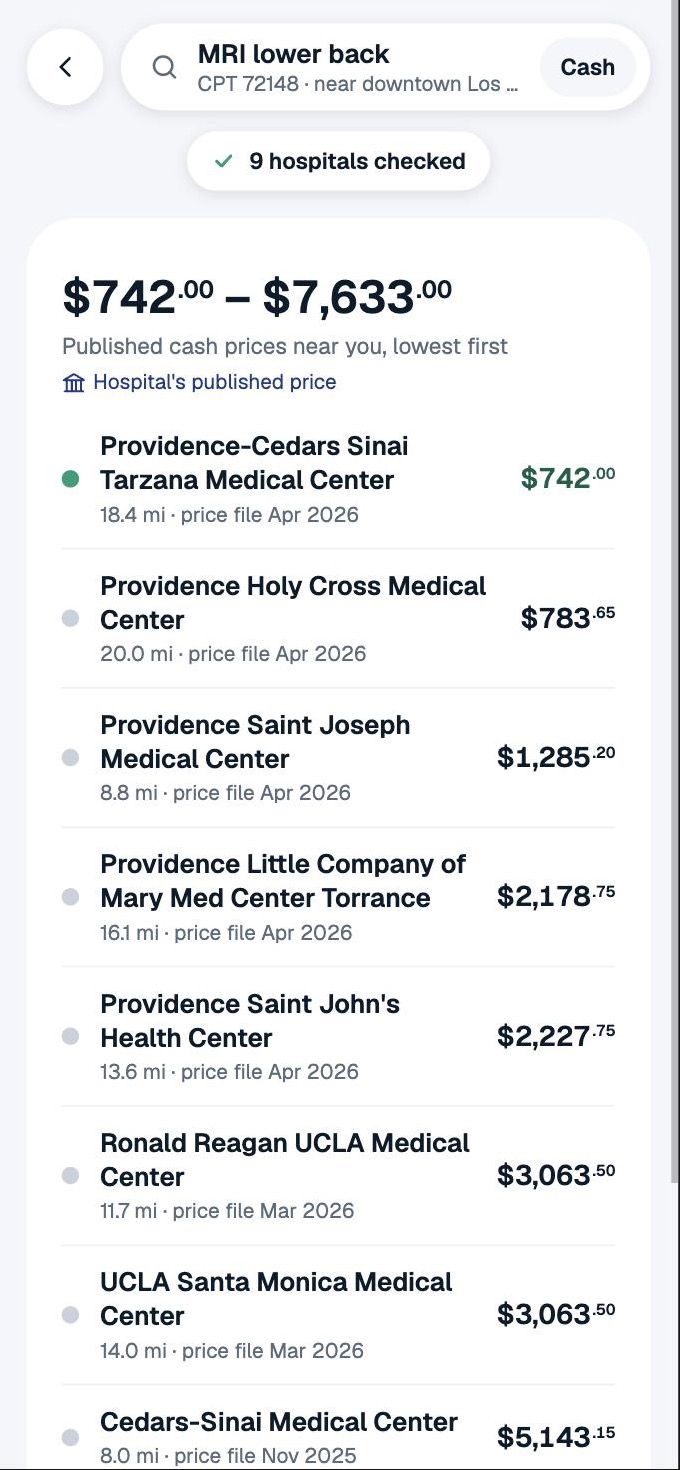
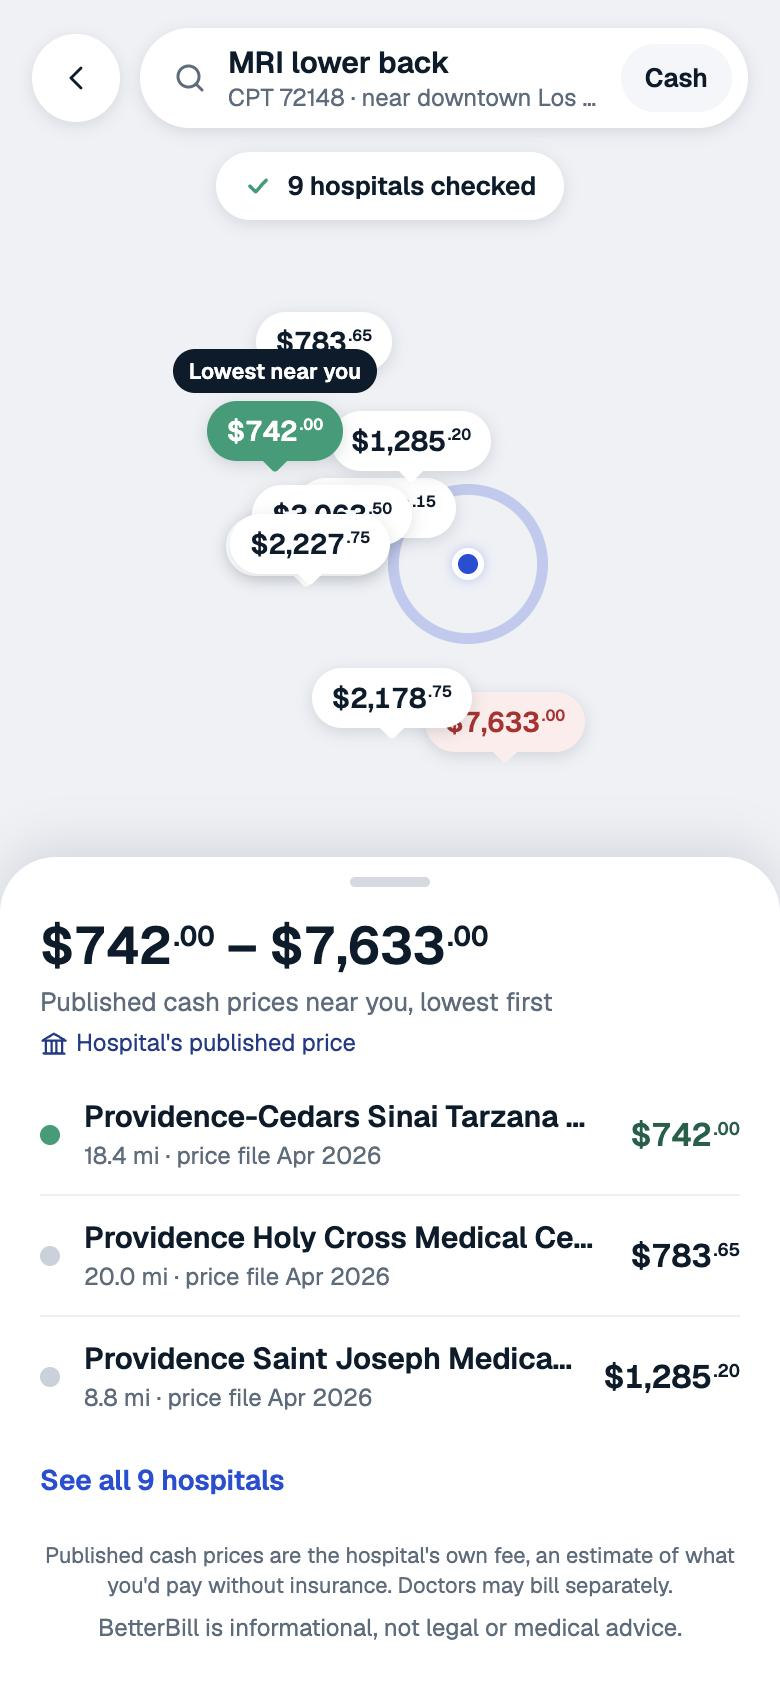
feat(native): animated price map on web
Expo web cannot draw react-native-maps, so the web map places each
hospital's price tag at its real position relative to the others (a flat
projection of latitude and longitude) on a plain background, with no
streets or place names. Same motion as the phone: the spot pulses while
we check, tags pop in every 180 ms with lower prices on top, then the
sheet rises. The map keeps every pin above the measured sheet, and sheet
rows keep hospital names to one line.

diff --git a/apps/native/components/bb/price-map.tsx b/apps/native/components/bb/price-map.tsx
@@ -1,3 +1,19 @@
+import { useEffect, useState } from "react";
+import { Pressable, View } from "react-native";
+import Animated, {
+  cancelAnimation,
+  Easing,
+  useAnimatedStyle,
+  useReducedMotion,
+  useSharedValue,
+  withDelay,
+  withRepeat,
+  withTiming,
+} from "react-native-reanimated";
+
+import { Money } from "./money";
+import { T } from "./t";
+
 // Pins appear one every PIN_STEP_MS; the sheet waits for the last one.
 export const PIN_STEP_MS = 180;
 
@@ -20,8 +36,234 @@ export type PriceMapProps = {
   insets?: { top: number; bottom: number };
 };
 
-// The map needs native maps (price-map.native.tsx). On the web the ranked
-// list carries the screen, so this renders nothing.
-export function PriceMap(_: PriceMapProps) {
-  return null;
+const PAD_X = 64;
+const PIN_W = 140;
+const PIN_H = 84;
+
+// Web (phones use price-map.native.tsx): no map tiles, so each hospital sits
+// on a plain background at its real position relative to the others (a flat
+// projection of its latitude and longitude). No streets or place names.
+// Same motion as the phone: the spot pulses while we check, then the price
+// tags pop in one by one.
+export function PriceMap({
+  rows,
+  origin,
+  here,
+  onSelect,
+  insets = { top: 56, bottom: 32 },
+}: PriceMapProps) {
+  const [size, setSize] = useState({ w: 0, h: 0 });
+  const key = rows.map((r) => r.hospitalKey).join();
+
+  // Fit every hospital and the origin into the area the controls leave free.
+  const points = [...rows, origin];
+  const cos = Math.cos((origin.lat * Math.PI) / 180);
+  const xs = points.map((p) => p.lng * cos);
+  const ys = points.map((p) => -p.lat);
+  const [minX, maxX] = [Math.min(...xs), Math.max(...xs)];
+  const [minY, maxY] = [Math.min(...ys), Math.max(...ys)];
+  const top = insets.top + 40;
+  const boxW = Math.max(size.w - PAD_X * 2, 1);
+  const boxH = Math.max(size.h - top - insets.bottom - 24, 1);
+  const scale =
+    rows.length === 0
+      ? 0
+      : Math.min(boxW / (maxX - minX || 1), boxH / (maxY - minY || 1));
+  const place = (p: { lat: number; lng: number }) => ({
+    x: size.w / 2 + (p.lng * cos - (minX + maxX) / 2) * scale,
+    y: top + boxH / 2 + (-p.lat - (minY + maxY) / 2) * scale,
+  });
+  const center =
+    rows.length === 0 ? { x: size.w / 2, y: top + boxH / 2 } : place(origin);
+
+  return (
+    <View
+      className="flex-1 overflow-hidden bg-[#EEF1F5]"
+      onLayout={(e) =>
+        setSize({
+          w: e.nativeEvent.layout.width,
+          h: e.nativeEvent.layout.height,
+        })
+      }
+      accessibilityLabel="Hospitals near you and their published cash prices, placed by location"
+    >
+      {size.w > 0 ? (
+        <>
+          <View
+            className="absolute"
+            style={{ left: center.x - 60, top: center.y - 60 }}
+            accessibilityLabel={here ? "You are here" : "Downtown Los Angeles"}
+          >
+            <Here checking={rows.length === 0} />
+          </View>
+          {rows.map((r, i) => (
+            <Pin
+              key={`${key}-${r.hospitalKey}`}
+              row={r}
+              at={place(r)}
+              delay={i * PIN_STEP_MS}
+              z={rows.length - i}
+              onPress={() => onSelect?.(r.hospitalKey)}
+            />
+          ))}
+        </>
+      ) : null}
+    </View>
+  );
+}
+
+function Pin({
+  row,
+  at,
+  delay,
+  z,
+  onPress,
+}: {
+  row: PriceMapProps["rows"][number];
+  at: { x: number; y: number };
+  delay: number;
+  // Lower prices sit on top where tags overlap.
+  z: number;
+  onPress: () => void;
+}) {
+  const reduced = useReducedMotion();
+  const shown = useSharedValue(reduced ? 1 : 0);
+  useEffect(() => {
+    if (reduced) return;
+    shown.value = withDelay(
+      delay,
+      withTiming(1, { duration: 450, easing: Easing.out(Easing.back(1.6)) }),
+    );
+  }, [delay, reduced, shown]);
+  const style = useAnimatedStyle(() => ({
+    opacity: Math.min(1, shown.value * 1.5),
+    transform: [
+      { translateY: (1 - shown.value) * -16 },
+      { scale: 0.5 + shown.value * 0.5 },
+    ],
+  }));
+  const lowest = row.rank === 1;
+  const highest = !lowest && row.shareOfHighest === 1;
+  const bg = lowest ? "bg-mint" : highest ? "bg-coral-soft" : "bg-white";
+  return (
+    <Animated.View
+      className="absolute items-center justify-end"
+      style={[
+        {
+          left: at.x - PIN_W / 2,
+          top: at.y - PIN_H,
+          width: PIN_W,
+          height: PIN_H,
+          zIndex: z,
+        },
+        style,
+      ]}
+      pointerEvents="box-none"
+    >
+      <Pressable
+        accessibilityRole="button"
+        accessibilityLabel={`${row.hospitalName}, ${row.distanceMiles.toFixed(1)} miles`}
+        onPress={onPress}
+        className="items-center"
+      >
+        {lowest ? (
+          <View className="mb-1 rounded-full bg-ink px-2 py-1">
+            <T weight="semibold" className="text-[11px] text-white">
+              Lowest near you
+            </T>
+          </View>
+        ) : null}
+        <View
+          className={`h-[30px] justify-center rounded-full px-2.5 ${bg}`}
+          style={{
+            shadowColor: "#0B1B2B",
+            shadowOpacity: 0.14,
+            shadowRadius: 8,
+            shadowOffset: { width: 0, height: 2 },
+          }}
+        >
+          {row.discountedCashCents === null ? (
+            <T className="text-muted text-xs">No cash price</T>
+          ) : (
+            <Money
+              cents={row.discountedCashCents}
+              size={14}
+              weight="semibold"
+              className={
+                lowest
+                  ? "text-white"
+                  : highest
+                    ? "text-coral-ink"
+                    : "text-foreground"
+              }
+              label={row.hospitalName}
+            />
+          )}
+        </View>
+        <View className={`-mt-1.5 size-2.5 rotate-45 rounded-[2px] ${bg}`} />
+      </Pressable>
+    </Animated.View>
+  );
+}
+
+// The blue dot for where distances are measured from, with rings that pulse
+// while hospitals are being checked (none under reduce motion).
+function Here({ checking }: { checking: boolean }) {
+  const reduced = useReducedMotion();
+  const a = useSharedValue(0);
+  const b = useSharedValue(0);
+  useEffect(() => {
+    if (reduced) return;
+    const loops = checking ? -1 : 2;
+    const ring = (delay: number) =>
+      withDelay(
+        delay,
+        withRepeat(
+          withTiming(1, { duration: 1600, easing: Easing.out(Easing.quad) }),
+          loops,
+          false,
+        ),
+      );
+    a.value = 0;
+    b.value = 0;
+    a.value = ring(0);
+    b.value = ring(500);
+    return () => {
+      cancelAnimation(a);
+      cancelAnimation(b);
+    };
+  }, [checking, reduced, a, b]);
+  const ringA = useAnimatedStyle(() => ({
+    opacity: 0.5 * (1 - a.value),
+    transform: [{ scale: 1 + a.value * 5 }],
+  }));
+  const ringB = useAnimatedStyle(() => ({
+    opacity: 0.5 * (1 - b.value),
+    transform: [{ scale: 1 + b.value * 5 }],
+  }));
+  return (
+    <View className="size-[120px] items-center justify-center">
+      {reduced ? null : (
+        <>
+          <Animated.View
+            className="absolute size-[22px] rounded-full border-[1.5px] border-accent"
+            style={ringA}
+          />
+          <Animated.View
+            className="absolute size-[22px] rounded-full border-[1.5px] border-accent"
+            style={ringB}
+          />
+        </>
+      )}
+      <View
+        className="size-4 rounded-full border-[3px] border-white bg-accent"
+        style={{
+          shadowColor: "#1E4ED8",
+          shadowOpacity: 0.3,
+          shadowRadius: 6,
+          shadowOffset: { width: 0, height: 0 },
+        }}
+      />
+    </View>
+  );
 }

diff --git a/apps/native/app/price/map.tsx b/apps/native/app/price/map.tsx
@@ -6,7 +6,6 @@ import { cn } from "heroui-native";
 import { useEffect, useState } from "react";
 import {
   ActivityIndicator,
-  Platform,
   Pressable,
   ScrollView,
   useWindowDimensions,
@@ -50,8 +49,8 @@ const openHospital = (hospitalKey: string, code: string) =>
   });
 
 // Price A: the hospitals near you on a map with their published cash price,
-// then a sheet with the range and the lowest three. Phones only for the map;
-// the web shows the ranked list.
+// then a sheet with the range and the lowest three. Phones draw a real map;
+// the web places the same pins by location on a plain background.
 export default function PriceMapScreen() {
   const { code = "" } = useLocalSearchParams<{ code: string }>();
   const service = SERVICES.find((s) => s.code === code);
@@ -59,13 +58,15 @@ export default function PriceMapScreen() {
   const { height } = useWindowDimensions();
   const nearby = useNearby(code);
   const { origin, data } = nearby;
-  const [all, setAll] = useState(Platform.OS === "web");
+  const [all, setAll] = useState(false);
+  // The collapsed sheet's height, so the map keeps every pin above it.
+  const [sheetH, setSheetH] = useState(420);
   const reduced = useReducedMotion();
   const shown = useSharedValue(reduced ? 1 : 0);
   useEffect(() => {
     if (!data) return;
-    // On phones the sheet rises once the last pin has popped in.
-    const pins = Platform.OS === "web" ? 0 : data.rows.length * PIN_STEP_MS;
+    // The sheet rises once the last pin has popped in.
+    const pins = data.rows.length * PIN_STEP_MS;
     shown.value = reduced
       ? 1
       : withDelay(
@@ -165,23 +166,6 @@ export default function PriceMapScreen() {
     />
   ) : null;
 
-  if (Platform.OS === "web") {
-    return (
-      <View className="flex-1 bg-wash">
-        <StatusBar style="dark" />
-        <ScrollView
-          contentContainerClassName="gap-4 px-4 pb-8"
-          contentContainerStyle={{ paddingTop: insets.top + 14 }}
-        >
-          {header}
-          <View className="rounded-[28px] bg-white px-5 pt-4 pb-5">
-            {body ?? <ActivityIndicator className="py-10" color="#1E4ED8" />}
-          </View>
-        </ScrollView>
-      </View>
-    );
-  }
-
   return (
     <View className="flex-1 bg-[#EEF1F5]">
       <StatusBar style="dark" />
@@ -192,7 +176,7 @@ export default function PriceMapScreen() {
             origin={origin}
             here={origin.here}
             onSelect={(key) => openHospital(key, code)}
-            insets={{ top: insets.top + 150, bottom: 400 }}
+            insets={{ top: insets.top + 150, bottom: sheetH + 24 }}
           />
         ) : null}
       </View>
@@ -201,6 +185,9 @@ export default function PriceMapScreen() {
       </View>
       <Animated.View
         className="absolute inset-x-0 bottom-0 rounded-t-[28px] bg-white px-5 pt-2.5"
+        onLayout={(e) => {
+          if (!all && data) setSheetH(e.nativeEvent.layout.height);
+        }}
         style={[
           sheetStyle,
           {
@@ -326,7 +313,7 @@ function PriceRow({
         )}
       />
       <View className="flex-1 gap-0.5">
-        <T weight="semibold" className="text-[15px]">
+        <T weight="semibold" className="text-[15px]" numberOfLines={1}>
           {row.hospitalName}
         </T>
         <T className="text-muted text-xs">

diff --git a/apps/native/components/bb/price-map.native.tsx b/apps/native/components/bb/price-map.native.tsx
@@ -31,7 +31,7 @@ export function PriceMap({
   const [shown, setShown] = useState(0);
   const key = rows.map((r) => r.hospitalKey).join();
 
-  // biome-ignore lint/correctness/useExhaustiveDependencies: refit and replay when the hospitals change
+  // biome-ignore lint/correctness/useExhaustiveDependencies: refit when the hospitals or the free area change
   useEffect(() => {
     if (rows.length === 0) return;
     map.current?.fitToCoordinates(
@@ -49,6 +49,11 @@ export function PriceMap({
         animated: !reduced,
       },
     );
+  }, [key, insets.top, insets.bottom, reduced]);
+
+  // biome-ignore lint/correctness/useExhaustiveDependencies: replay when the hospitals change
+  useEffect(() => {
+    if (rows.length === 0) return;
     if (reduced) {
       setShown(rows.length);
       return;
